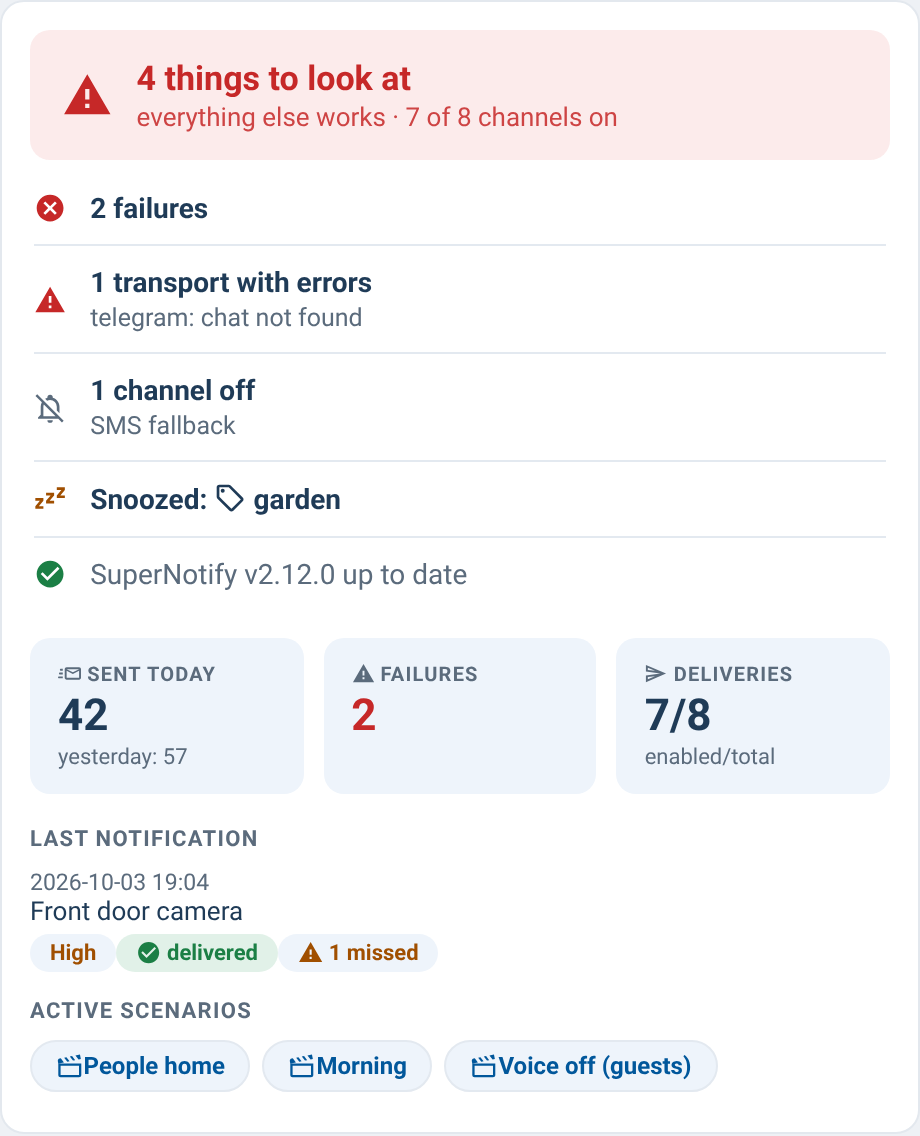
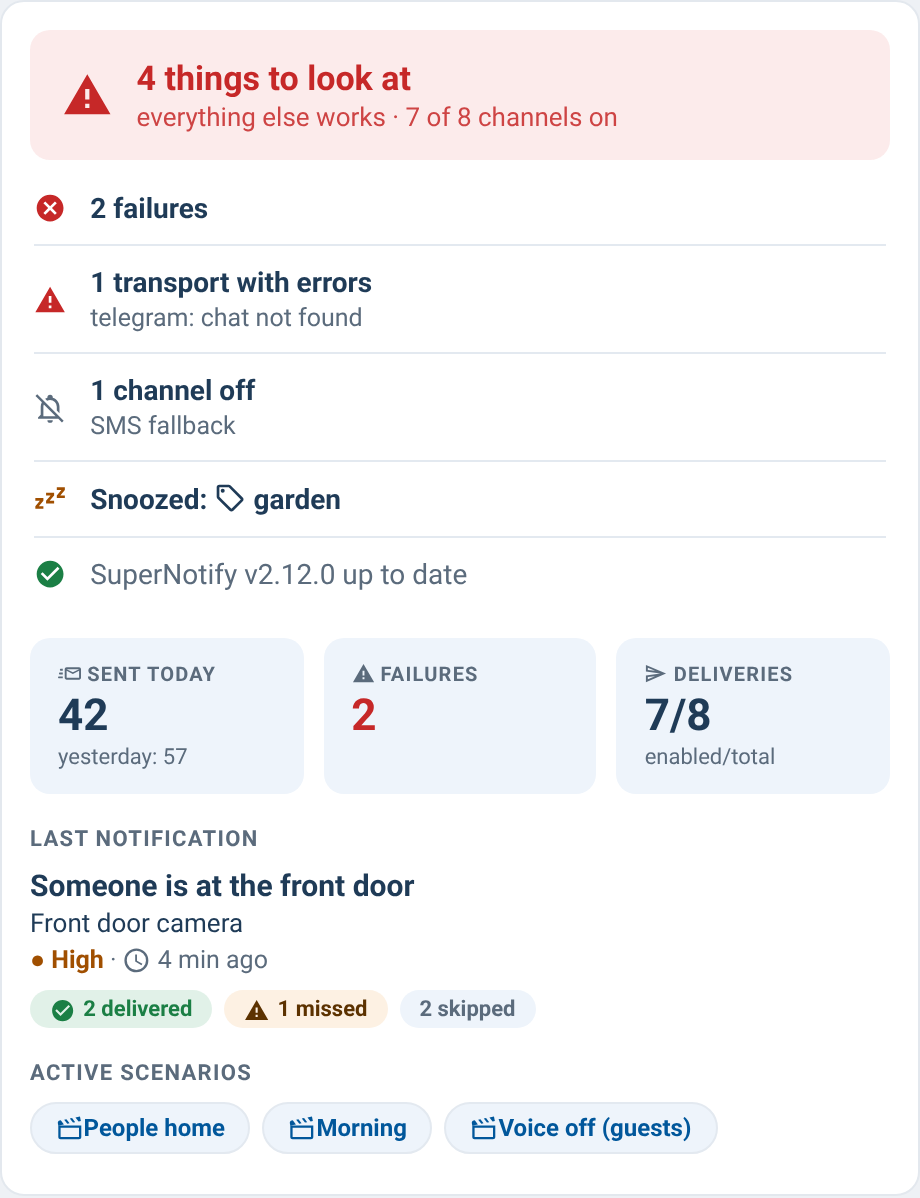
v0.56.0: overview last notification reads like the control card's, last_notification: false hides it
Claude-Session: https://claude.ai/code/session_01ALt6dhzSXi9QkgiwPM6yvM

diff --git a/dist/supernotify-control-card.js b/dist/supernotify-control-card.js
@@ -8,6 +8,10 @@
  * Example config: see README.md
  *
  * CHANGELOG
+ * 2026-10-03 - v0.56.0. overview-card 0.28.0: the last notification reads like the control card's -
+ *   title, message, priority and "4 min ago" instead of a raw timestamp, channel counts with the
+ *   names in the tooltip ("2 delivered", "1 missed", "2 skipped"), and Why ›. `last_notification:
+ *   false` hides the block when the control card already shows it (also in the visual editor).
  * 2026-10-03 - v0.55.0. Visual editor and a simulator that explains.
  *   - Every card answers getConfigForm(): "Add card" / "Edit card" shows a form drawn by Home
  *     Assistant (entity pickers, switches, numbers, dropdowns) for the common options, with a
@@ -347,7 +351,7 @@
  *   Backup of the pre-change file: X:\sn_backups\supernotify_cards_20260908\supernotify-control-card_pre_toggle.js
  */
 
-const VERSION = "0.55.0"; // bundle / HACS release
+const VERSION = "0.56.0"; // bundle / HACS release
 
 /**
  * Per-card versions: bumped ONLY when that card changes (the bundle VERSION
@@ -359,7 +363,7 @@ const VERSION = "0.55.0"; // bundle / HACS release
  */
 const SN_CARD_VERSIONS = {
   control: "0.29.0",
-  overview: "0.27.0",
+  overview: "0.28.0",
   bands: "0.18.0",
   deliveries: "0.25.0",
   transports: "0.22.0",
@@ -863,7 +867,7 @@ function snForm(kind) {
       sel("tile_layout", [["", "o_row"], ["stacked", "o_stacked"]]), num("tile_columns", 1, 6)],
     overview: [ent("update_entity", "update"), ent("sent_today_entity", "sensor"),
       ent("quiet_entity", ["binary_sensor", "input_boolean"]), bool("health", true),
-      sel("stats", [["", "o_three"], ["full", "o_full"]]), num("poll_seconds", 10, 600, 10)],
+      sel("stats", [["", "o_three"], ["full", "o_full"]]), bool("last_notification", true), num("poll_seconds", 10, 600, 10)],
     deliveries: [txt("title"), bool("group", true), bool("hide_defaults", true)],
     transports: [], recipients: [], simulator: [], bands: [],
     scenarios: [num("poll_seconds", 10, 600, 10)],
@@ -2307,7 +2311,7 @@ class SupernotifyOverviewCard extends HTMLElement {
     try {
       const [act, last, snz] = await Promise.all([
         this._ws("enquire_active_scenarios"),
-        this._ws("enquire_last_notification"),
+        this._config.last_notification === false ? {} : this._ws("enquire_last_notification"),
         this._ws("enquire_snoozes"),
       ]);
       this._active = act.scenarios || [];
@@ -2358,7 +2362,12 @@ class SupernotifyOverviewCard extends HTMLElement {
         .b-off { background: ${p.soft}; color: ${p.muted}; }
         .b-crit { background: rgba(226,60,60,.12); color: ${p.crit}; }
         .lastmsg { font-size: 13px; }
-        .lastmsg .t { color: ${p.muted}; font-size: 11.5px; }
+        .lastmsg .t { color: ${p.muted}; font-size: 12.5px; margin-top: 3px; }
+        .lastmsg .lt { font-size: 15px; font-weight: 600; } .lastmsg .lmm { margin-top: 2px; }
+        .lastmsg .lf { display: flex; flex-wrap: wrap; gap: 6px; align-items: center; margin-top: 8px; }
+        .lastmsg .badge { display: inline-flex; align-items: center; gap: 4px; }
+        .whyb { margin-left: auto; border: 1.5px solid ${p.line}; background: ${p.panel}; color: ${p.brandD};
+                border-radius: 999px; padding: 5px 12px; font: inherit; font-size: 12px; font-weight: 700; cursor: pointer; }
         .chip { display: inline-flex; border: 1.5px solid ${p.line}; border-radius: 999px;
                 padding: 5px 12px; font-size: 12px; font-weight: 650; margin: 0 6px 6px 0;
                 background: ${p.soft}; color: ${p.brandD}; }
@@ -2391,8 +2400,8 @@ class SupernotifyOverviewCard extends HTMLElement {
       </style>
       <ha-card>
         ${snIntro(this._config, this._dark)}<div class="health" id="health"></div><div class="stats" id="stats"></div>
-        <div class="sec">${snT(this._config, this._hass).last_notif}</div>
-        <div class="lastmsg" id="last">—</div>
+        ${this._config.last_notification === false ? "" : `<div class="sec">${snT(this._config, this._hass).last_notif}</div>
+        <div class="lastmsg" id="last">—</div>`}
         <div class="sec">${snT(this._config, this._hass).act_scen}</div>
         <div id="scen">—</div>
         ${this._config && this._config.show_version ? `<div class="ver">supernotify-overview-card v${SN_CARD_VERSIONS.overview}</div>` : ""}
@@ -2464,20 +2473,41 @@ class SupernotifyOverviewCard extends HTMLElement {
       stat("📤 " + T.deliveries, dels.length ? `${delsOn}/${dels.length}` : "—", T.enabled_total) +
       (this._config.stats !== "full" ? "" : stat("😴 " + T.snoozed, snz.length, snz.length && snz[0]._end ? T.until + " " + esc(String(snz[0]._end.getHours()).padStart(2, "0") + ":" + String(snz[0]._end.getMinutes()).padStart(2, "0")) : "", snz.length ? p.warn : undefined)), this && this._config);
 
+    // 0.56.0: same reading as the control card - title, message, priority and "4 min ago",
+    // channel counts, Why ›. `last_notification: false` hides the block (the control card has it).
     const lastEl = this.shadowRoot.getElementById("last");
-    if (this._last) {
+    if (lastEl && this._last) {
       const n = this._last;
-      const when = n.created ? esc(String(n.created).replace("T", " ").slice(0, 16)) : "";
-      const msg = esc((n.message || "").slice(0, 90));
-      const ok = (n.failed || 0) === 0;
-      const prioCol = { critical: p.crit, high: p.warn, medium: p.brandD }[n.priority];
-      const prio = n.priority
-        ? `<span class="badge" style="background:${p.soft};color:${prioCol || p.muted}">${esc(T["prio_" + n.priority] || n.priority)}</span>`
-        : "";
-      const ch = +n.delivered > 0 ? `<span class="badge b-off">${snPl(T, "channels", n.delivered)}</span>` : "";
-      lastEl.innerHTML = snIconify(`<div class="t">${when}</div><div>${msg}</div>
-        <div style="margin-top:5px">${prio}<span class="badge ${ok ? "b-ok" : "b-crit"}">${ok ? "✔ " + T.delivered : "✖ " + n.failed + " " + T.failed}</span>${+n.missed > 0 ? `<span class="badge" style="background:${p.soft};color:${p.warn || "#f0a020"}">⚠ ${snPl(T, "missed_n", +n.missed)}</span>` : ""}${ch}</div>`, this && this._config);
-    } else {
+      const title = n.title || "";
+      const msg = (n.message || "").slice(0, 140);
+      const prioCol = { critical: p.crit, high: p.warn, medium: p.brandD, low: p.muted, minimum: p.muted }[n.priority];
+      const d = n.created ? new Date(n.created) : null;
+      const meta = [n.priority ? `<span style="color:${prioCol || p.muted};font-weight:600">● ${esc(T["prio_" + n.priority] || n.priority)}</span>` : "",
+        d && !isNaN(d) ? `🕐 ${esc(snAgo(d, T))}` : ""].filter(Boolean).join(" · ");
+      const okN = [], errN = [];
+      let skipped = 0;
+      if (n.deliveries && typeof n.deliveries === "object") {
+        for (const [name, dd] of Object.entries(n.deliveries)) {
+          const ok = dd && Array.isArray(dd.success) && dd.success.length;
+          const err = dd && Array.isArray(dd.error) && dd.error.length;
+          if (!ok && !err) { skipped++; continue; }
+          (err ? errN : okN).push(snDeliveryAlias(this._hass, name) || name);
+        }
+      }
+      const chips = [];
+      if (okN.length) chips.push(`<span class="badge b-ok" title="${esc(okN.join(", "))}">✔ ${snPl(T, "ln_delivered", okN.length)}</span>`);
+      else if (+n.delivered > 0) chips.push(`<span class="badge b-ok">✔ ${snPl(T, "ln_delivered", +n.delivered)}</span>`);
+      if (errN.length || +n.failed > 0) chips.push(`<span class="badge b-crit" title="${esc(errN.join(", "))}">✖ ${snPl(T, "ln_failed", errN.length || +n.failed)}</span>`);
+      if (+n.missed > 0) chips.push(`<span class="badge" style="background:${p.warnSoft};color:${p.warnInk}">⚠ ${snPl(T, "missed_n", +n.missed)}</span>`);
+      if (skipped) chips.push(`<span class="badge b-off">${snPl(T, "skipped_n", skipped)}</span>`);
+      const why = n.id && window.__snWhyCards ? `<button class="whyb" id="whyBtn">${esc(T.ln_why)} ›</button>` : "";
+      lastEl.innerHTML = snIconify(`<div class="lt">${esc(title || msg || "—")}</div>
+        ${title && msg ? `<div class="lmm">${esc(msg)}</div>` : ""}
+        ${meta ? `<div class="t">${meta}</div>` : ""}
+        <div class="lf">${chips.join("")}${why}</div>`, this && this._config);
+      const wb = lastEl.querySelector("#whyBtn");
+      if (wb) wb.onclick = () => snWhyOpen(n.id);
+    } else if (lastEl) {
       lastEl.textContent = "—";
     }
 

diff --git a/docs/cards/overview.md b/docs/cards/overview.md
@@ -21,8 +21,13 @@ type: custom:supernotify-overview-card
 poll_seconds: 60        # refresh interval for enquire_* data
 health: true            # health sentence + list on top (false = hide, chips = the pre-0.52 chips)
 stats: full             # all five numbers (default: sent, failures, channels)
+last_notification: false   # hide the last notification (the control card already shows it)
 update_entity: update.supernotify_update   # HACS update entity for the version chip
 quiet_entity: binary_sensor.notifier_dnd   # your DND sensor, for the 🌙 chip
 sent_today_entity: sensor.supernotify_sent_today   # daily utility_meter for "sent today"
 style: theme            # follow the HA theme instead of the SuperNotify look
 ```
+
+The **last notification** block reads like the control card's: title, message, priority, how long ago,
+then "2 delivered · 1 missed · 2 skipped" (hover for the channel names) and **Why ›** when a why card
+is on the dashboard. If you use both cards on the same view, set `last_notification: false` here.

diff --git a/CHANGELOG.md b/CHANGELOG.md
@@ -3,6 +3,19 @@
 All notable changes to **supernotify-control-card** are documented here.
 Format based on [Keep a Changelog](https://keepachangelog.com/en/1.1.0/).
 
+## [0.56.0] - 2026-10-03
+
+One way to read the last notification.
+
+### Changed
+- overview-card 0.28.0: the last notification now looks like the control card's - title and message,
+  coloured priority and "4 min ago" instead of a raw timestamp, channel counts ("2 delivered",
+  "1 missed", "2 skipped") with the names in the tooltip, and **Why ›** when a why card is present.
+
+### Added
+- `last_notification: false` on the overview hides the block (and skips the
+  `enquire_last_notification` call) when the control card already shows it. Also in the visual editor.
+
 ## [0.55.0] - 2026-10-03
 
 Visual editor and a simulator that explains.
